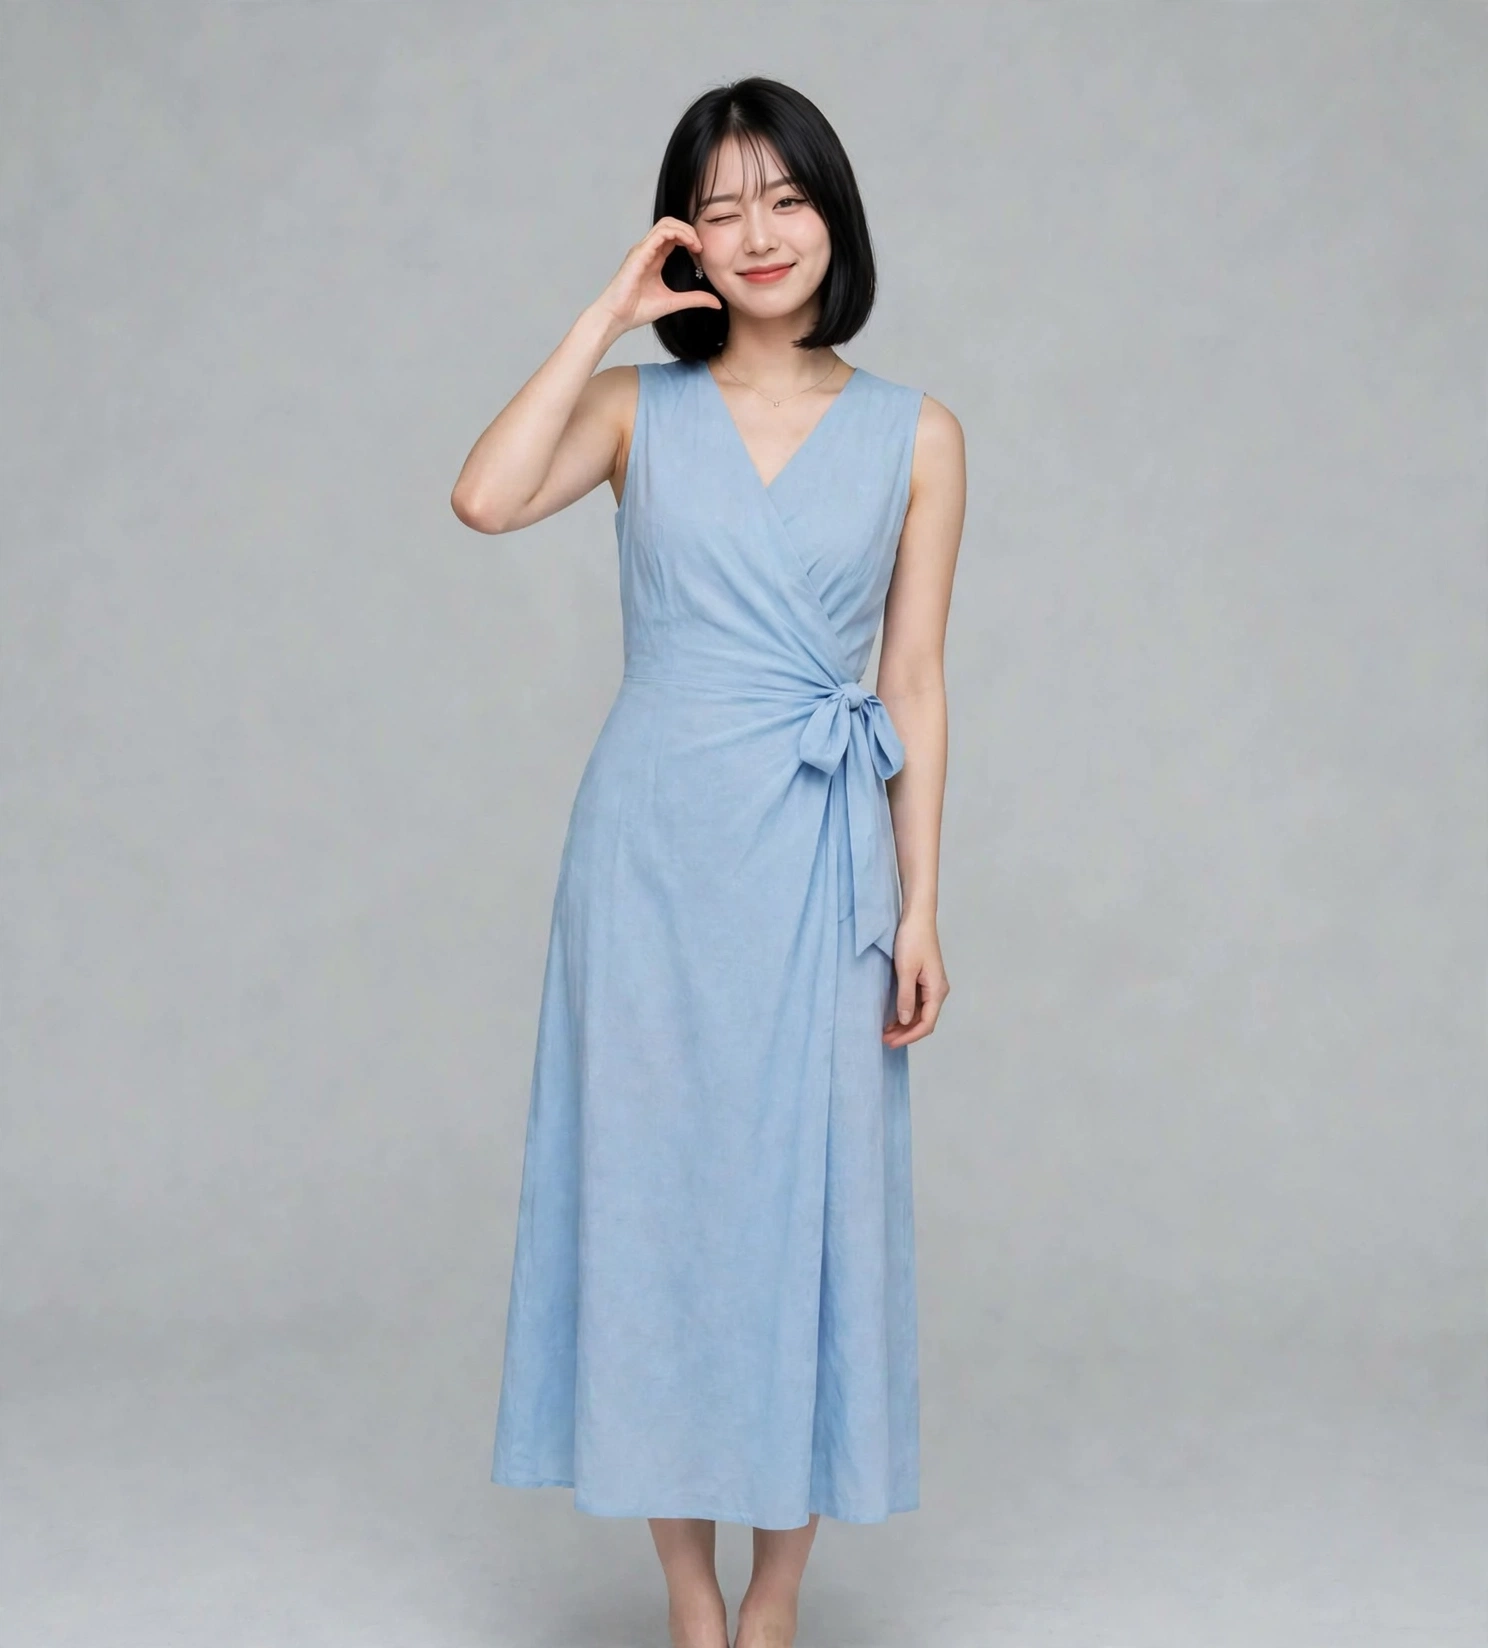
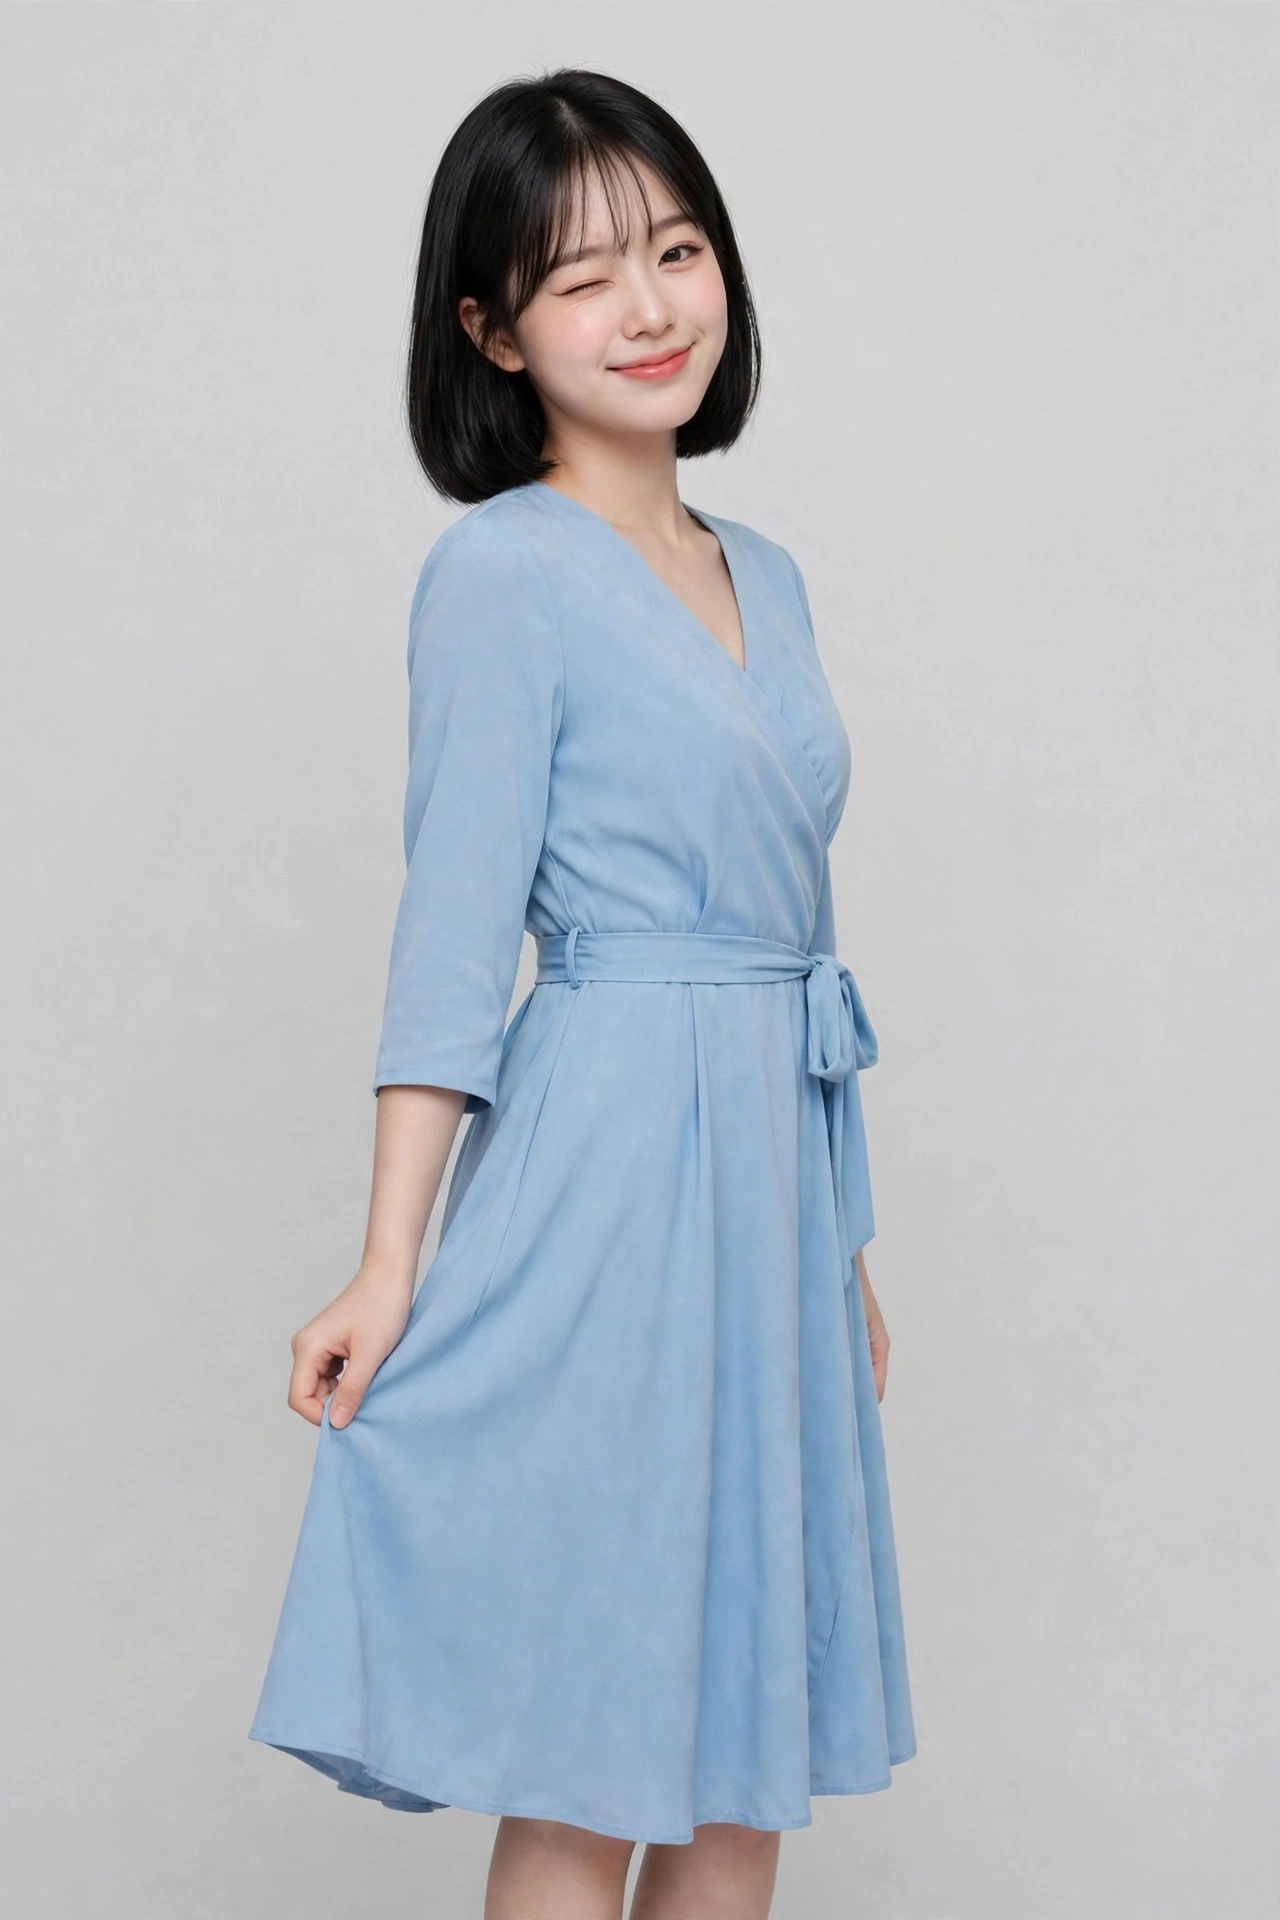
Refill Sena studio2 5-6 with v2 face (v72)

diff --git a/index.html b/index.html
@@ -42,7 +42,7 @@
 <body>
 <header>
   <h1 id="album-title">Mia's Album</h1>
-  <p id="album-sub">확정 얼굴 기준의 컷 모음 (총 161컷) · 버전 71</p>
+  <p id="album-sub">확정 얼굴 기준의 컷 모음 (총 161컷) · 버전 72</p>
   <div class="char-switch" role="tablist" aria-label="캐릭터 선택">
     <button type="button" class="char-btn active" id="btn-mia">Mia</button>
     <button type="button" class="char-btn" id="btn-ciel">Ciel</button>
@@ -510,15 +510,15 @@
     btnSena.classList.toggle('active', name === 'sena');
     if (name === 'ciel'){
       albumTitle.textContent = "Ciel's Album";
-      albumSub.textContent = '단발 귀여운상 기준의 컷 모음 (총 4컷) · 버전 71';
+      albumSub.textContent = '단발 귀여운상 기준의 컷 모음 (총 4컷) · 버전 72';
       document.title = "Ciel's Album";
     } else if (name === 'sena'){
       albumTitle.textContent = "Sena's Album";
-      albumSub.textContent = '시크한 단발 귀염상 기준의 컷 모음 (총 33컷) · 버전 71';
+      albumSub.textContent = '시크한 단발 귀염상 기준의 컷 모음 (총 33컷) · 버전 72';
       document.title = "Sena's Album";
     } else {
       albumTitle.textContent = "Mia's Album";
-      albumSub.textContent = '확정 얼굴 기준의 컷 모음 (총 161컷) · 버전 71';
+      albumSub.textContent = '확정 얼굴 기준의 컷 모음 (총 161컷) · 버전 72';
       document.title = "Mia's Album";
     }
     cards = allCards.filter(c => c.offsetParent !== null);

diff --git a/sw.js b/sw.js
@@ -1,4 +1,4 @@
-const CACHE = 'influencer-album-v71';
+const CACHE = 'influencer-album-v72';
 const CORE = ['./', './index.html', './manifest.webmanifest', './icon-192.png', './icon-512.png',
   './img/face-anchor.webp',
   './img/studio-1.webp', './img/studio-2.webp', './img/studio-3.webp', './img/studio-4.webp',
